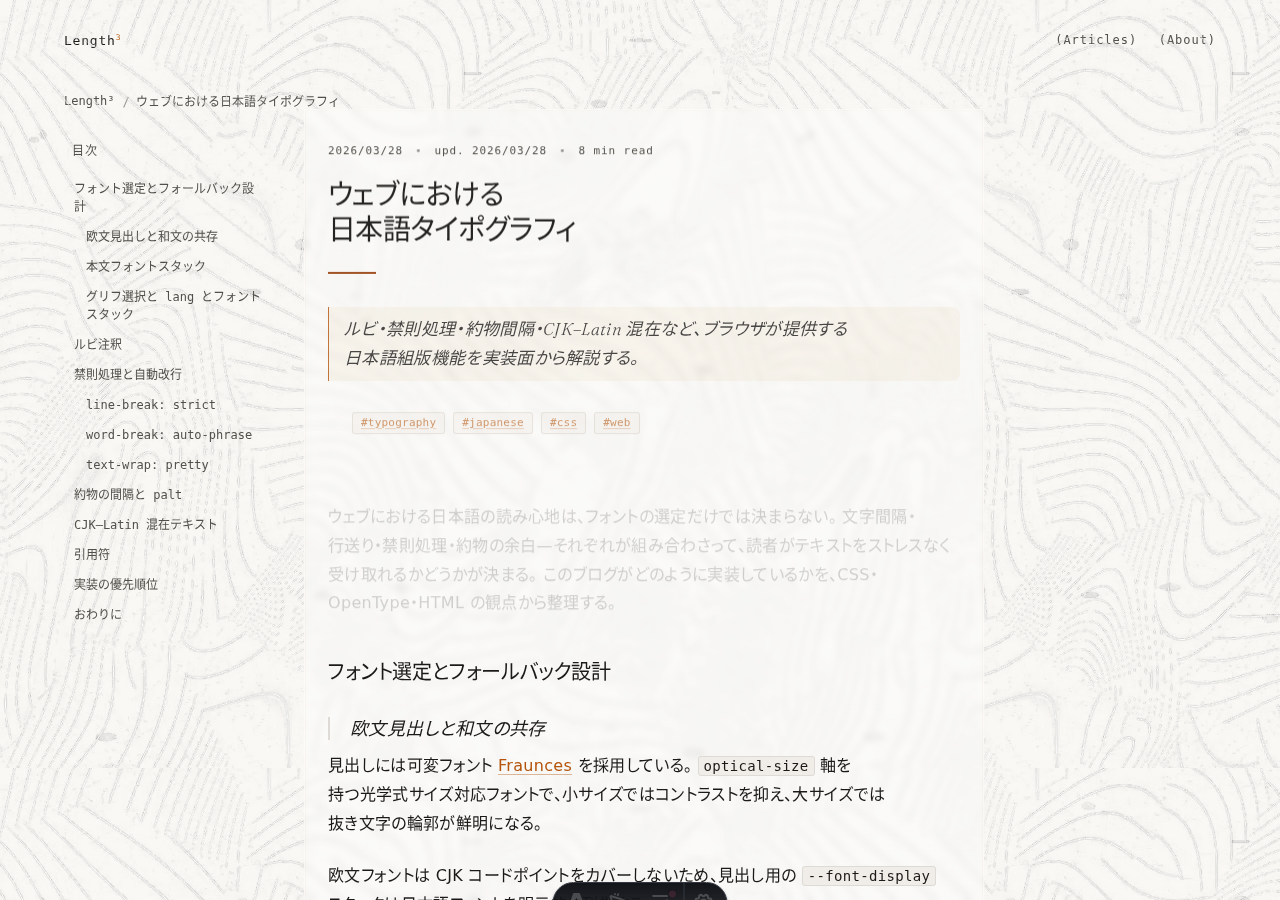
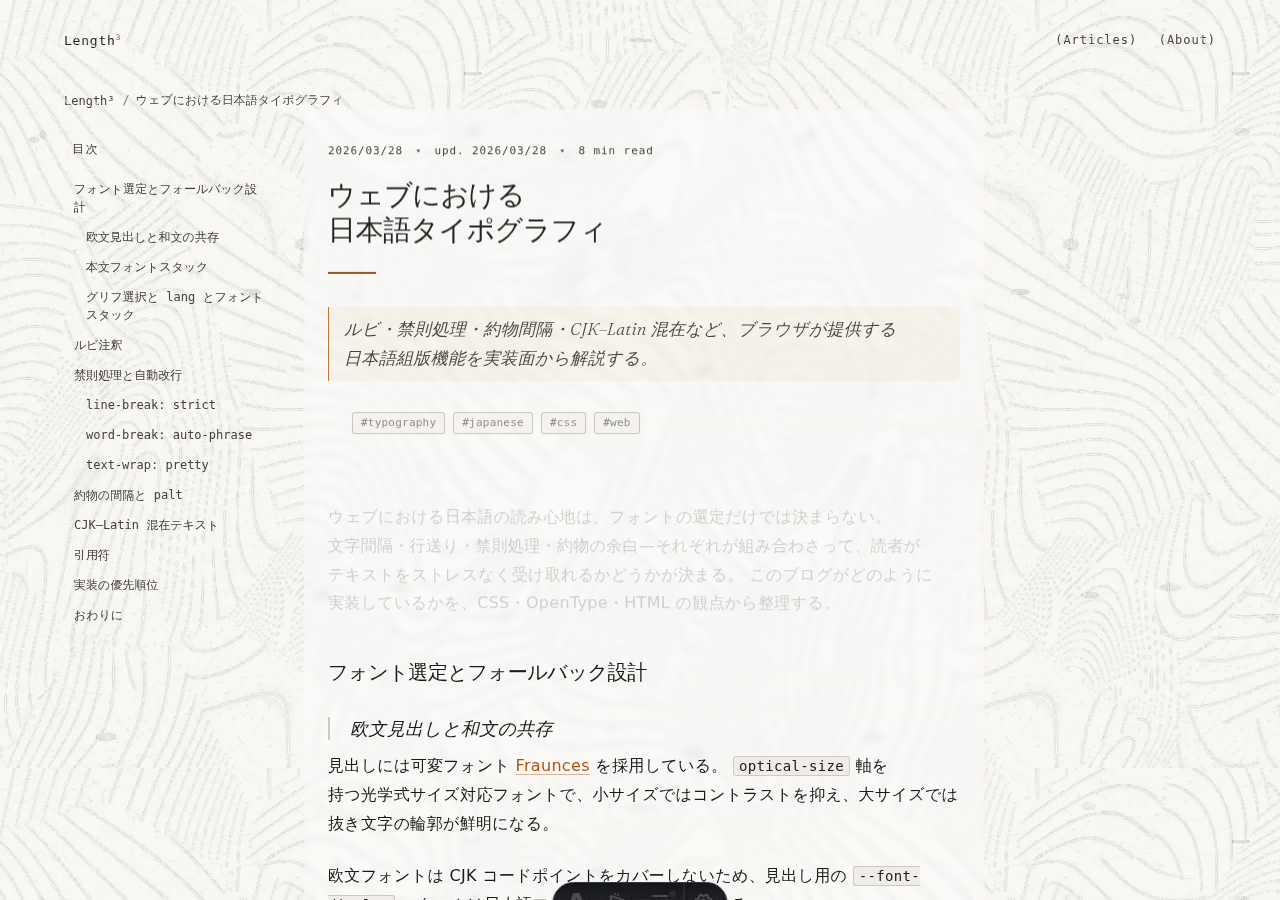
Collapse the topic list tail and fix mobile display type
サイドバーのトピック一覧は上位 6 件だけを常時表示し、残りは native の
<details> に畳む。折りたたみ中も DOM には全件残るのでクローラとページ内
検索から到達でき、JS なしでキーボード操作もできる。

モバイルの本文が大きく見える件は、本文サイズではなく表示系と折り返しが
原因だった。16px は現行ガイドライン（および spec §8）の下限なので据え置き、
代わりに次を変更した:

- 記事 H1: 720px 未満で 28px → 24px、max-width: 18ch を解除。390px では
  18ch が 350px 中 252px しか使わせず、長い和文タイトルが 5 行になっていた
- word-break: auto-phrase を 720px 以上に限定。文節単位の折り返しは行末に
  文節ぶんの余白を残すため、390px では列の充填率 83.4% / 91 行だったものが
  文字単位では 93.1% / 80 行になる（同じ本文、同じ文字サイズで 9% 短い）
- .prose の行送りをモバイルで 1.75、720px 以上で 1.8
- .page-title も H1 と同じ縮尺で 24px → 28px

spec とドキュメント用スクリーンショットも更新した。

Claude-Session: https://claude.ai/code/session_01G5C6P8dDNB8eisDQfpMGfx

diff --git a/src/styles/components.css b/src/styles/components.css
@@ -636,6 +636,89 @@ a.crumb:active {
   letter-spacing: 0.08em;
 }
 
+/* 上位 6 件のみ常時表示し、残りは <details> で展開する。
+   JS を持たない開示ウィジェットなので、折りたたみ中もマークアップ上は
+   全トピックが存在し、クローラと Ctrl+F から到達できる。 */
+.sidebar-topics-more {
+  min-width: 0;
+}
+
+.sidebar-topic-list--rest {
+  border-top: none;
+}
+
+.sidebar-topics-toggle {
+  display: flex;
+  align-items: center;
+  gap: 0.5rem;
+  min-height: 2.75rem; /* 44px — spec §8: タップターゲット下限 */
+  padding: 0.875rem 0;
+  border-bottom: 0.0625rem solid var(--rule);
+  font-family: var(--font-mono);
+  font-size: 0.75rem;
+  letter-spacing: 0.06em;
+  color: var(--ink-2);
+  cursor: pointer;
+  list-style: none;
+  touch-action: manipulation;
+  transition: color var(--transition-fast);
+}
+
+/* Safari は summary のマーカーを ::-webkit-details-marker で描画する。 */
+.sidebar-topics-toggle::-webkit-details-marker {
+  display: none;
+}
+
+.sidebar-topics-toggle:hover,
+.sidebar-topics-toggle:active {
+  color: var(--amber-text);
+}
+
+/* 開閉状態に応じてラベルを差し替える。JS を使わずに CSS だけで切り替える。 */
+.sidebar-topics-more:not([open]) .sidebar-topics-toggle-label[data-toggle-state='open'],
+.sidebar-topics-more[open] .sidebar-topics-toggle-label[data-toggle-state='closed'] {
+  display: none;
+}
+
+/* 「+」を CSS で描く。開いたら 45 度回して「×」にする。 */
+.sidebar-topics-toggle-icon {
+  position: relative;
+  flex-shrink: 0;
+  width: 0.625rem;
+  height: 0.625rem;
+  margin-left: auto;
+  transition: transform var(--transition-slow);
+}
+
+.sidebar-topics-toggle-icon::before,
+.sidebar-topics-toggle-icon::after {
+  content: '';
+  position: absolute;
+  inset: 0;
+  margin: auto;
+  background: currentcolor;
+}
+
+.sidebar-topics-toggle-icon::before {
+  width: 100%;
+  height: 0.0625rem;
+}
+
+.sidebar-topics-toggle-icon::after {
+  width: 0.0625rem;
+  height: 100%;
+}
+
+.sidebar-topics-more[open] .sidebar-topics-toggle-icon {
+  transform: rotate(45deg);
+}
+
+@media (prefers-reduced-motion: reduce) {
+  .sidebar-topics-toggle-icon {
+    transition: none;
+  }
+}
+
 .search-unavailable,
 .search-loading,
 .search-error {

diff --git a/src/styles/typography.css b/src/styles/typography.css
@@ -2,15 +2,24 @@
 .prose {
   max-width: var(--measure);
   font-size: 1rem;        /* spec §2: 16px base, not 1.0625rem */
-  line-height: 1.8;
+  line-height: 1.75;      /* spec §2: モバイルの 1 行 ≒ 22 字では 1.8 は空きすぎる */
   color: var(--ink);
   /* Japanese typography */
   line-break: strict;
   overflow-wrap: anywhere;
-  word-break: auto-phrase;
   text-wrap: pretty;
   /* CJK–Latin auto-spacing (Chrome 123+, progressive enhancement) */
   text-autospace: ideograph-alpha;
+}
+
+/* word-break: auto-phrase は文節単位で折り返すため、行末に文節ひとつぶんの
+   余白が残る。1 行 22 字程度のモバイル幅ではその余白が本文を実際より大きく
+   見せるので、桁数に余裕のある幅でのみ有効にする。 */
+@media (min-width: 45rem) {
+  .prose {
+    line-height: 1.8;
+    word-break: auto-phrase;
+  }
 }
 
 /* ─── Headings ───────────────────────────────────────────────── */
@@ -261,9 +270,14 @@ rt {
   color: var(--surface-separator);
 }
 
+/* モバイルでは 18ch の幅制限と 28px が重なると長い日本語タイトルが 5 行に
+   なる。狭い画面では列幅いっぱいを使い、サイズを 24px に落として 2〜3 行に
+   収める。28px と 22ch は 45rem 以上でのみ適用する。 */
 .article-header h1 {
+  font-size: 1.5rem;
+  line-height: 1.3;
   margin-bottom: 0.5rem;
-  max-width: 18ch;
+  max-width: none;
 }
 
 /* margin only — shape is provided by .amber-rule (global.css) */
@@ -307,6 +321,8 @@ rt {
   }
 
   .article-header h1 {
+    font-size: 1.75rem;   /* spec §2: Article H1 = 28px */
+    line-height: 1.25;
     max-width: 22ch;
     margin-bottom: 0.5rem;
   }

diff --git a/src/i18n/site-copy.ts b/src/i18n/site-copy.ts
@@ -29,6 +29,7 @@ export interface SiteCopy {
   tableOfContents: string;
   tags: string;
   topics: string;
+  topicsShowLess: string;
   total: string;
   updatedPrefix: string;
   articles: string;
@@ -63,6 +64,7 @@ const SITE_COPY_BY_LANGUAGE: Record<SiteLanguage, SiteCopy> = {
     tableOfContents: 'Table of Contents',
     tags: 'Tags',
     topics: 'Topics',
+    topicsShowLess: 'Show less',
     total: 'total',
     updatedPrefix: 'upd.',
   },
@@ -94,6 +96,7 @@ const SITE_COPY_BY_LANGUAGE: Record<SiteLanguage, SiteCopy> = {
     tableOfContents: '目次',
     tags: 'タグ',
     topics: 'トピック',
+    topicsShowLess: '閉じる',
     total: 'total',
     updatedPrefix: 'upd.',
   },
@@ -105,6 +108,11 @@ export function getSiteCopy(language: SiteLanguage | null | undefined): SiteCopy
   }
 
   return SITE_COPY_BY_LANGUAGE.en;
+}
+
+/** Label for the collapsed remainder of the topic list ("+18 more"). */
+export function formatHiddenTopicsLabel(count: number, language: SiteLanguage | null | undefined) {
+  return language === 'ja' ? `他 ${count} 件` : `+${count} more`;
 }
 
 export function formatCompactReadingTime(

diff --git a/src/i18n/site-copy.test.ts b/src/i18n/site-copy.test.ts
@@ -2,6 +2,7 @@ import { describe, expect, it } from 'vitest';
 import {
   formatArticleReadingTime,
   formatCompactReadingTime,
+  formatHiddenTopicsLabel,
   formatRemainingReadingTime,
   getSiteCopy,
 } from './site-copy';
@@ -20,6 +21,19 @@ describe('getSiteCopy', () => {
     expect(copy.left).toBe('left');
     expect(copy.total).toBe('total');
     expect(copy.share).toBe('Share');
+    expect(copy.topicsShowLess).toBe('閉じる');
+  });
+});
+
+describe('formatHiddenTopicsLabel', () => {
+  it('labels the collapsed remainder of the topic list per language', () => {
+    expect(formatHiddenTopicsLabel(18, 'en')).toBe('+18 more');
+    expect(formatHiddenTopicsLabel(18, 'ja')).toBe('他 18 件');
+  });
+
+  it('falls back to English when no language is given', () => {
+    expect(formatHiddenTopicsLabel(1, null)).toBe('+1 more');
+    expect(formatHiddenTopicsLabel(1, undefined)).toBe('+1 more');
   });
 });
 

diff --git a/tests/e2e/index.spec.ts b/tests/e2e/index.spec.ts
@@ -18,3 +18,28 @@ test('index route smoke', async ({ page }) => {
   ).toBeVisible();
   expect(errors).toEqual([]);
 });
+
+test('sidebar shows the top topics and hides the tail behind a disclosure', async ({ page }) => {
+  const errors = trackBrowserErrors(page);
+
+  await page.goto('/');
+
+  const alwaysVisible = page.locator(
+    '.sidebar-topic-list:not(.sidebar-topic-list--rest) .sidebar-topic-card',
+  );
+  await expect(alwaysVisible).toHaveCount(6);
+
+  const rest = page.locator('.sidebar-topic-list--rest');
+  await expect(rest).toBeHidden();
+
+  const toggle = page.locator('.sidebar-topics-toggle');
+  await expect(toggle).toContainText('more');
+
+  await toggle.click();
+  await expect(rest).toBeVisible();
+  await expect(toggle).toContainText('Show less');
+
+  await toggle.click();
+  await expect(rest).toBeHidden();
+  expect(errors).toEqual([]);
+});

diff --git a/src/styles/global.css b/src/styles/global.css
@@ -361,10 +361,18 @@ img {
    the prose-specific margin so each call site sets its own spacing. */
 .page-title {
   font-family: var(--font-display);
-  font-size: 1.75rem;
+  font-size: 1.5rem;
   font-weight: 400;
-  line-height: 1.18;
+  line-height: 1.22;
   text-wrap: balance;
+}
+
+/* 記事の H1 と同じ縮尺で動かす（typography.css の .article-header h1 参照）。 */
+@media (min-width: 45rem) {
+  .page-title {
+    font-size: 1.75rem;
+    line-height: 1.18;
+  }
 }
 
 /* Secondary line below a page title — count / subtitle / metadata. */

diff --git a/docs/specs/ui-spec.md b/docs/specs/ui-spec.md
@@ -81,14 +81,18 @@ Previous iterations used `0.9rem` (≈14.4px) for body text. This is revised upw
 | ----------------------------- | ---------------- | --------------- | ---------- | ----------- |
 | Display H1 (Index page title) | 2.0rem (32px)    | Fraunces        | 300 italic | 1.2         |
 | Article H1                    | 1.75rem (28px)   | Fraunces        | 300        | 1.25        |
+| Article H1 (< 720px)          | 1.5rem (24px)    | Fraunces        | 300        | 1.3         |
 | H2                            | 1.25rem (20px)   | Fraunces        | 400        | 1.3         |
 | H3                            | 1.1rem (17.6px)  | Fraunces        | 400 italic | 1.3         |
-| Body prose                    | 1rem (16px)      | system-ui       | 400        | 1.95        |
+| Body prose                    | 1rem (16px)      | system-ui       | 400        | 1.8         |
+| Body prose (< 720px)          | 1rem (16px)      | system-ui       | 400        | 1.75        |
 | Lead / Lede                   | 1.05rem (16.8px) | Fraunces italic | 300        | 1.9         |
 | UI label                      | 0.75rem (12px)   | JetBrains Mono  | 400        | —           |
 | Code inline                   | 0.88em           | JetBrains Mono  | 400        | —           |
 | Date / Meta                   | 0.75rem (12px)   | JetBrains Mono  | 400        | 1.4         |
 | Tag                           | 0.75rem (12px)   | JetBrains Mono  | 400        | —           |
+
+**Mobile heading scale.** Below 720px the display sizes step down one notch (Article H1 and `.page-title` from 28px to 24px) and the article H1 drops its `max-width: 18ch` cap. At 390px the cap left the title only 252px of the available 350px, so a long Japanese title wrapped to five lines and the header block alone filled a third of the first screen. Body sizes do not move: 16px is the floor (see §8, Mobile Requirements), and the fix for "the text looks large on a phone" is the display scale and the wrapping, not the body size.
 
 ### Line-Length Control
 
@@ -97,7 +101,7 @@ The 680px column cap provides automatic line-length control, but the following C
 - `text-wrap: pretty` on body paragraphs. Prevents orphaned single-word final lines (widows). Falls back gracefully in non-Chromium browsers — the text simply wraps without the optimization, which is acceptable.
 - `text-wrap: balance` on headings. When a heading breaks to two lines, this distributes characters evenly between them. Fallback: normal wrapping, which is tolerable but less elegant.
 - `line-break: strict` on Japanese body text. Enforces kinsoku rules — prohibiting line-initial punctuation and brackets.
-- `word-break: auto-phrase` on Japanese text. Chrome 119+ only; enables phrase-level wrapping via BudouX. Non-Chromium browsers ignore this property entirely, falling back to standard character-level breaks.
+- `word-break: auto-phrase` on Japanese text, **at 720px and above only**. Chrome 119+ only; enables phrase-level wrapping via BudouX. Non-Chromium browsers ignore this property entirely, falling back to standard character-level breaks. Phrase wrapping keeps a whole 文節 together, so it leaves a phrase-sized gap at the end of a line. That is invisible in a 630px column and expensive in a 350px one: measured over the first twelve paragraphs of a Japanese article at a 390px viewport, phrase wrapping fills 83.4% of the column and needs 91 lines, while character wrapping fills 93.1% and needs 80 — the same text, 9% shorter, with no change in font size.
 
 **Fallback policy.** All four properties degrade silently. The spec does not require polyfills or JavaScript-based alternatives. The enhanced behavior is a progressive improvement, not a baseline requirement.
 
@@ -209,6 +213,14 @@ Secondary surface: inline code backgrounds, code blocks, sidebar. The difference
 **Item separation:** `border-bottom: 1px solid var(--rule)`. Padding: 24px top, 24px bottom. First item: `padding-top: 0`. Last item: no bottom border.
 
 **Hover:** Title color transitions to amber, 80ms ease. No background change. No cursor change (`cursor: default`). The color shift alone communicates interactivity.
+
+### Topic List (Index Sidebar)
+
+**Rows:** JetBrains Mono, 0.75rem, `letter-spacing: 0.06em`. Topic name left, article count right, `padding: 14px 0`, `border-bottom: 1px solid var(--rule)`. Sorted by count, descending.
+
+**Disclosure:** only the **top 6** topics render as open rows. The remainder collapse into a native `<details>` whose `<summary>` is styled as one more row — `+N more` when closed, `Show less` when open, with a `+` glyph that rotates 45° into a `×`. The summary is 44px tall, matching the tap-target minimum.
+
+The widget is `<details>`, not a JavaScript toggle, for three reasons: the hidden topics stay in the DOM, so crawlers and in-page find still reach them; the control is keyboard- and screen-reader-operable with no ARIA authoring; and nothing about it can fail to hydrate. The threshold is 6 because the tail of the list is single-article tags — at 24 topics, 18 of them had a count of 1, and an alphabetical run of one-article tags is a scroll obstacle between the reader and the footer, not a navigation aid.
 
 ### Table of Contents (Article Page)
 
